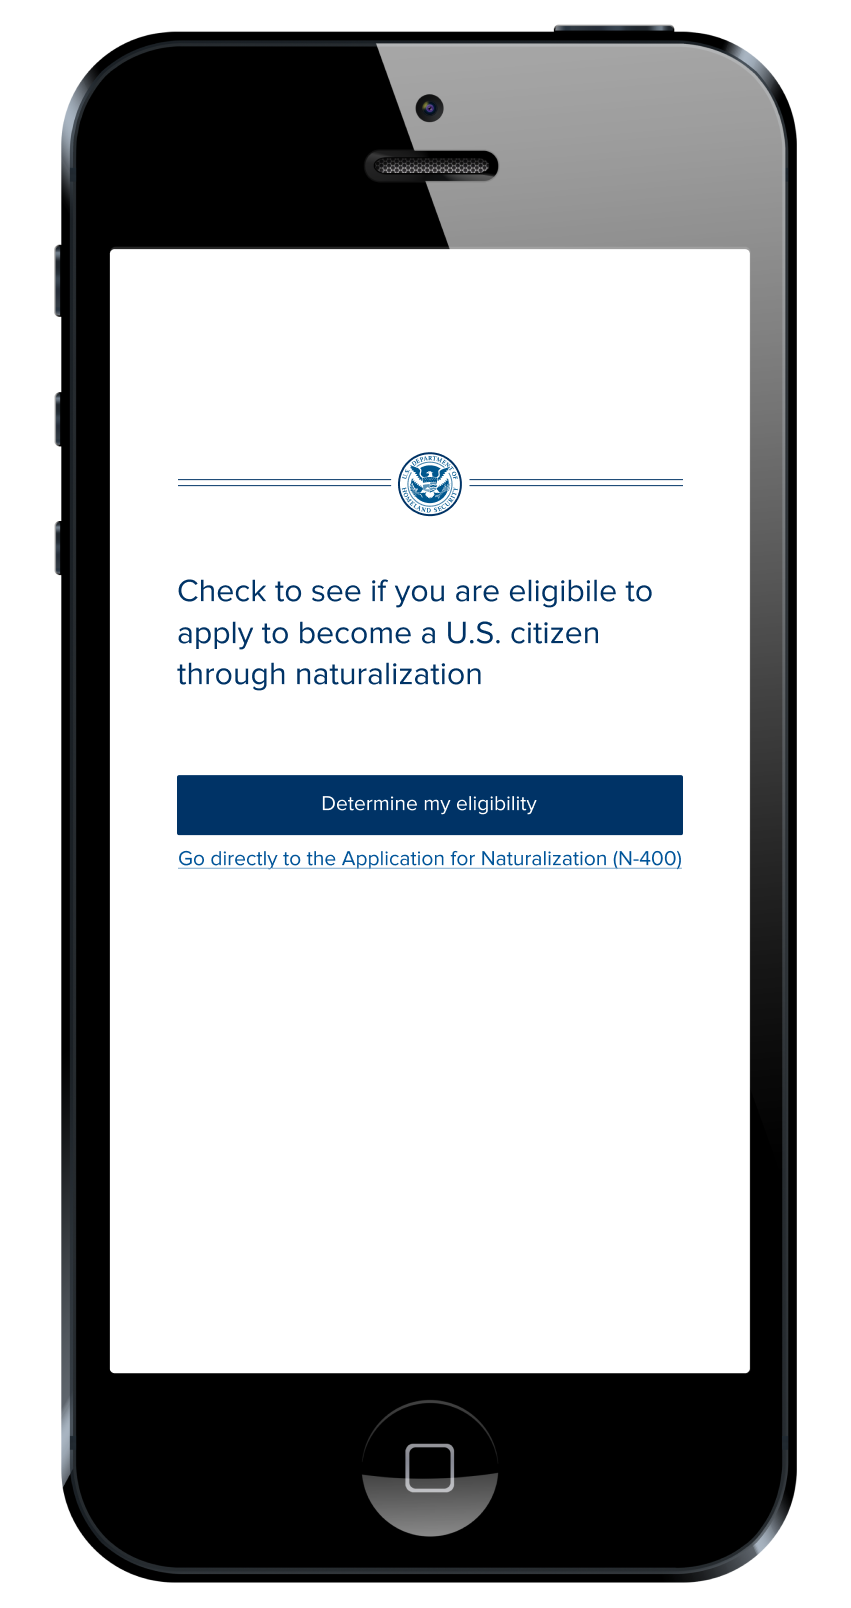
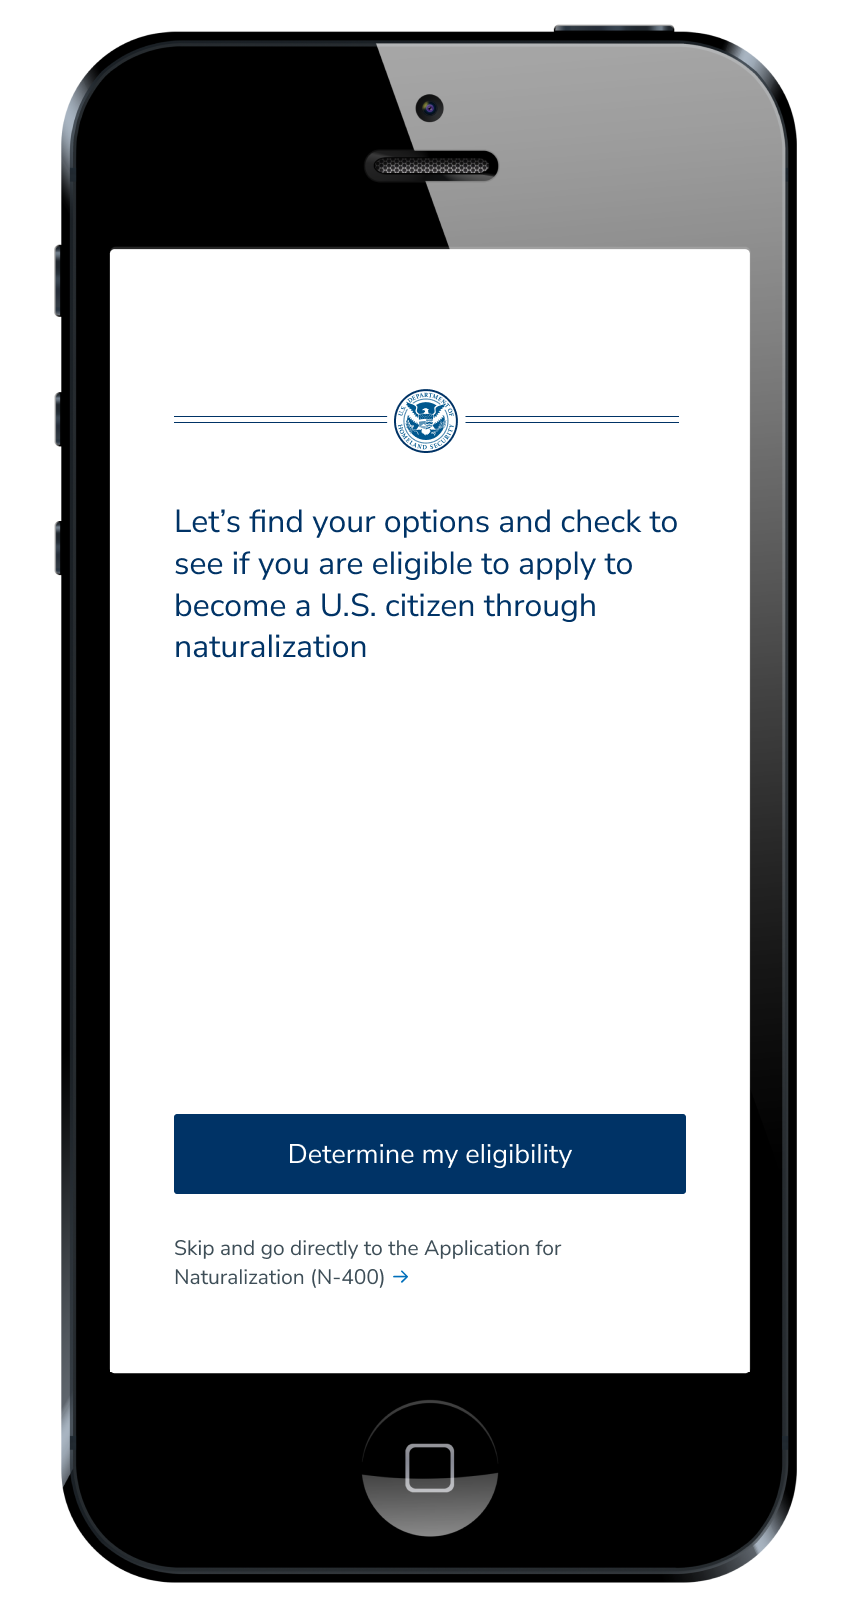
add mobile

diff --git a/uscis/casestudy/index.html b/uscis/casestudy/index.html
@@ -215,9 +215,9 @@
 						Among the tech-savvy participants, we found that most were unlikely
 						to use the app and file on their own, opting instead to hire
 						professional services to file on their behalf. Of the remaining
-						participants, access to desktop technology and insufficient guidance
-						and transparency into the journey ahead created barriers that made
-						the existing PDFs the preferable option.
+						participants, lack of access to desktop technology and insufficient
+						guidance and transparency into the journey ahead created barriers
+						that made the existing PDFs the preferable option.
 					</p>
 				</article>
 			</div>
@@ -228,7 +228,11 @@
 			</div>
 		</div>
 
-		<div class="container-fluid colorbox" data-color="#EBF8FF">
+		<div
+			id="design-sprint"
+			class="container-fluid colorbox"
+			data-color="#EBF8FF"
+		>
 			<section class="container timeline">
 				<div class="connector"></div>
 			</section>
@@ -248,16 +252,30 @@
 						Flush with clearer insights about our users, we regrouped with USCIS
 						and invited subject-matter experts to participate in a week-long
 						design sprint. We needed to make the Application for Citizenship
-						more accessible to a population that had rapidly shifted from
-						desktop to mobile. And we needed to reduce the amount of work
-						involved &mdash; both actual and perceived &mdash; to make the
-						experience 10x better than filling out PDFs.
+						more accessible to a population that had rapidly shifted to mobile.
+						And we needed to give them the confidence to file online on their own.
 					</p>
 				</article>
 			</section>
-			<section class="container timeline design-sprint">
-				<div class="connector"></div>
+			<!-- <div class="container-fluid uscis-sketches">
+				<div class="container"></div>
+			</div> -->
+			<section class='container wide mobile-screens'>
+				<ul>
+					<li>
+						<img src="../../img/uscis/eligibility-01.png" alt="mobile screen" />
+					</li>
+					<li>
+						<img src="../../img/uscis/eligibility-02.png" alt="mobile screen" />
+					</li>
+					<li>
+						<img src="../../img/uscis/eligibility-03.png" alt="mobile screen" />
+					</li>
+				</ul>
 			</section>
+			<!-- <section class="container timeline design-sprint">
+				<div class="connector"></div>
+			</section> -->
 		</div>
 
 		<!-- Global Site Tag (gtag.js) - Google Analytics -->

diff --git a/css/case.css b/css/case.css
@@ -366,13 +366,48 @@
 	flex-grow: 0;
 }
 
+#case-study #design-sprint article:first-of-type {
+	padding-bottom: 120px;
+}
+
 #case-study .design-sprint {
 	background: url(../img/uscis/eligibility-04.png) right 0 no-repeat;
 	background-size: contain;
-	padding-bottom: 80px;
+	padding-bottom: 160px;
 }
 
 #case-study .design-sprint > div {
-	padding: 120px 0;
+	padding: 160px 0;
 	/* margin-bottom: 80px; */
+}
+
+#case-study .uscis-sketches {
+	background: url(../img/uscis/uscis-sketches.png) center center no-repeat;
+	background-size: cover;
+	padding-top: 200px;
+	padding-bottom: 200px;
+}
+
+#case-study .container.mobile-screens {
+	margin: 0 auto;
+}
+
+#case-study .mobile-screens ul {
+	list-style: none;
+	display: flex;
+	flex-direction: row;
+}
+#case-study .mobile-screens li {
+	height: 80vh;
+	min-height: 480px;
+	/* border: 1px solid #f00; */
+		flex-grow: 1;
+	align-self: stretch;
+	justify-content: space-between;
+}
+#case-study .mobile-screens li img {
+	object-fit: contain;
+	height: inherit;
+	min-height: inherit;
+
 }
